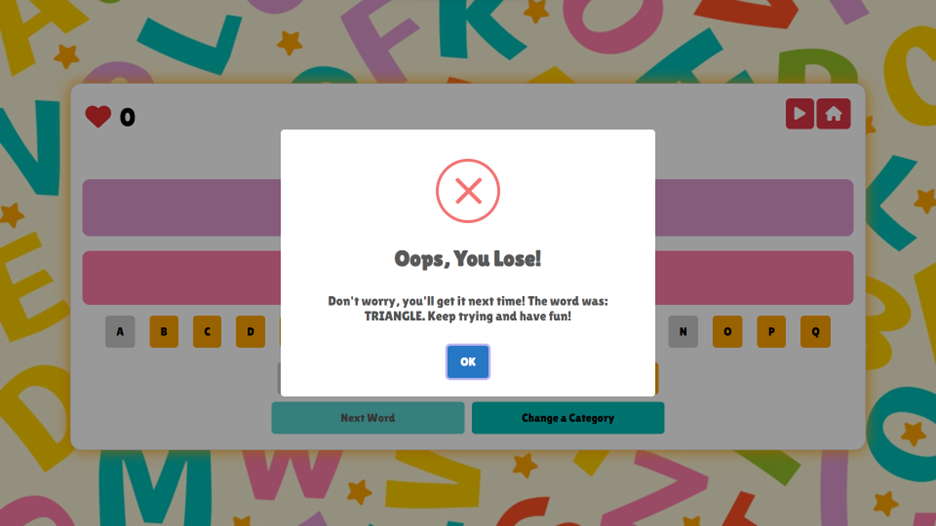
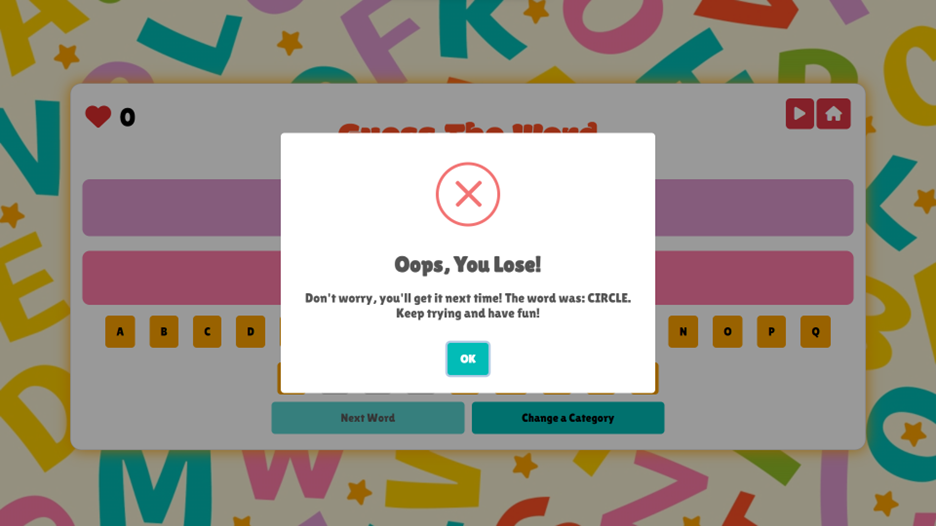
modified sweetalert

diff --git a/assets/js/script.js b/assets/js/script.js
@@ -244,6 +244,7 @@ function updateWordDisplay(selectedWord, selectedLetter) {
                     icon: 'error',
                     title: 'Oops, You Lose!',
                     text: `Don't worry, you'll get it next time! The word was: ${secretWord}. Keep trying and have fun!`,
+                    confirmButtonColor: '#02BCB7',
                     confirmButtonText: 'OK'
                 }).then(() => {
                    
@@ -252,7 +253,6 @@ function updateWordDisplay(selectedWord, selectedLetter) {
             }
         }
     }
- 
 }
 //Displays the remaining chances (hearts) on the game page.
 function displayChances() {
@@ -298,20 +298,11 @@ function prepGame() {
                     icon: 'success',
                     title: 'Wow, No More Words',
                     text: `Fantastic job! You've guessed all the words in ${currentCategory} category. Explore another category for more exciting challenges!`,
-                    showCancelButton: true,
-                    confirmButtonColor: '#02BCB7', 
-                    cancelButtonColor: '#FF5025', 
+                    confirmButtonColor: '#02BCB7',
                     confirmButtonText: 'Change Category',
-                    cancelButtonText: 'Back to Home',
-                }).then((result) => {
-                    if (result.isConfirmed) {
-                        redirectToCategoryPage();
-                    } else if (result.dismiss === Swal.DismissReason.cancel) {
-                        redirectToWelcomePage();
-                    }
-                });
-                
-               
+                }).then(() => {
+                    redirectToCategoryPage();
+                });  
             }
         });
     }

diff --git a/assets/css/styles.css b/assets/css/styles.css
@@ -402,4 +402,3 @@ body {
 }
 
 
-
